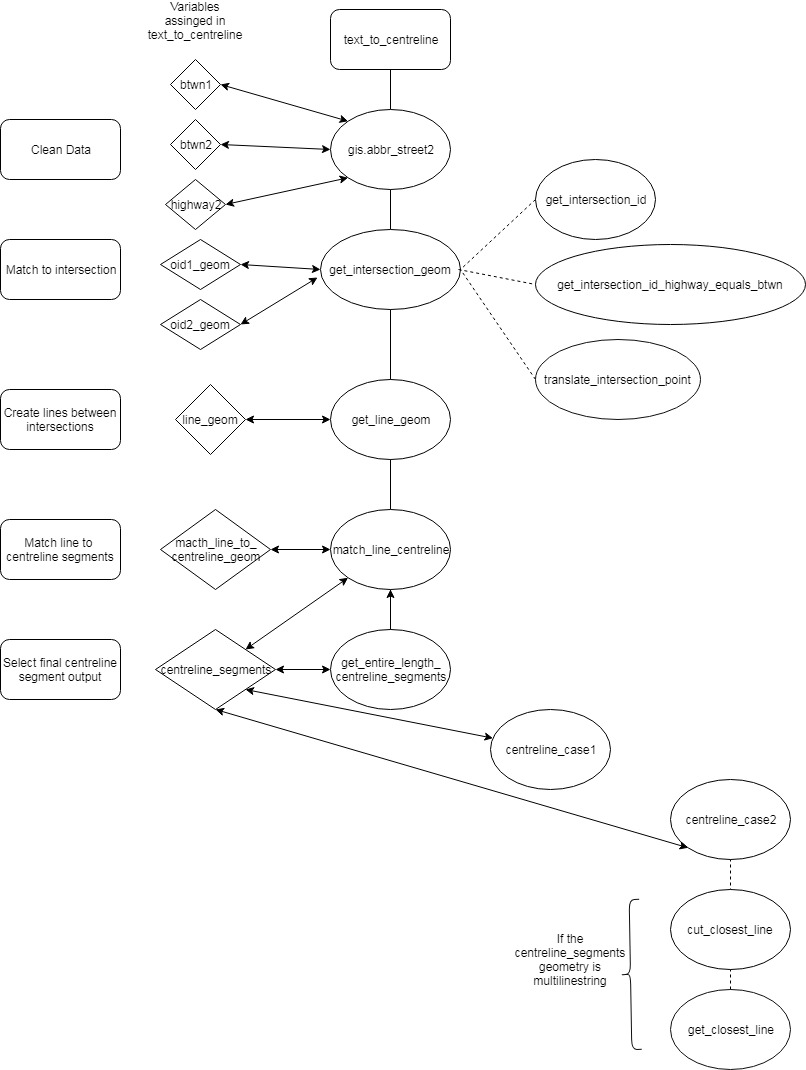
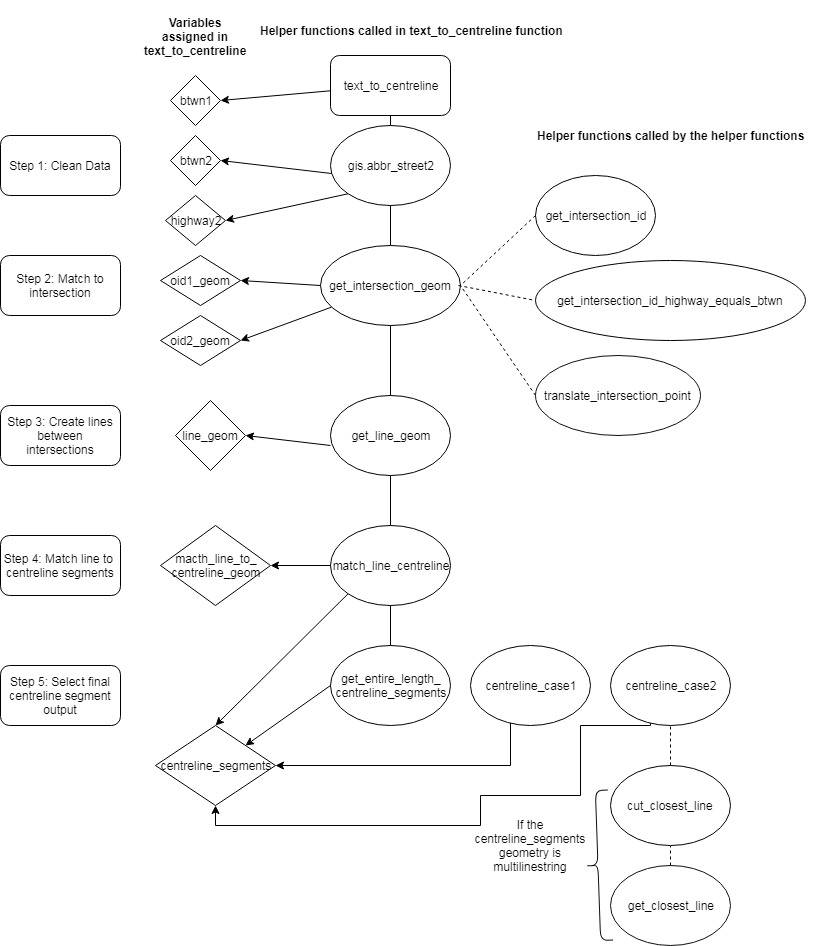
fixed documentation for centreline matching

diff --git a/gis/text_to_centreline_geometry_scripts/README.md b/gis/text_to_centreline_geometry_scripts/README.md
@@ -1,16 +1,15 @@
 
-# <center>Text Description to Centreline Geometry Automation Official Doc</center>
-## <center>August 2019</center>
+# <center>Text Description to Centreline Geometry Automation</center>
 
 ## Intro
 
-This is a `README` for the `text_to_centreline(highway, fr, t)` function, which is written in `postgresql` (currently living in the `crosic` schema). The general purpose of this function is to take input of a text description of a street location in the City of Toronto, and make an output of centreline segments that match this description. The input descriptions typically state the street that the bylaw occurs on and the two intersections between which the bylaw occrus. For example, you could use the function to get the centreline segments of Bloor Street between Royal York Road and St George Street.
+This is a `README` for the `text_to_centreline(highway, fr, t)` function, which is written in `postgresql` (currently living in the `crosic` schema). The general purpose of this function is to take an input text description of a street location in the City of Toronto, and return an output of centreline segments that match this description. The input descriptions typically state the street that the bylaw is in effect on and the two intersections between which the bylaw. For example, you could use the function to get the centreline segments of Bloor Street between Royal York Road and St George Street.
 
-The function is supposed to be mainly used for City of Toronto [transportation bylaw data](https://open.toronto.ca/dataset/traffic-and-parking-by-law-schedules/), for example we have already used previous versions of this process for [posted speed limits](https://github.com/CityofToronto/bdit_data-sources/tree/master/gis/posted_speed_limit_update) on streets in the City, locations of [community safety zones](https://github.com/CityofToronto/bdit_vz_programs/tree/master/safety_zones/commuity_safety_zone_bylaws), [turn restrictions](https://github.com/CityofToronto/bdit_vz_programs/blob/master/notebooks/Turn%20Restrictions.ipynb), etc. The function can handle most bylaws, even more advanced cases. Any limitations that we are currently aware of will be listed somewhere in this document. It also should be noted that some bylaws are incorrect (for many reasons, such as a described intersection not existing), and our function probably cannot match a lot of these bylaws, since the data is incorrect.
+The function is mainly created to process the City of Toronto's [transportation bylaw data](https://open.toronto.ca/dataset/traffic-and-parking-by-law-schedules/). We have already used previous versions of this process for [posted speed limits](https://github.com/CityofToronto/bdit_data-sources/tree/master/gis/posted_speed_limit_update) on streets in the City, locations of [community safety zones](https://github.com/CityofToronto/bdit_vz_programs/tree/master/safety_zones/commuity_safety_zone_bylaws), [turn restrictions](https://github.com/CityofToronto/bdit_vz_programs/blob/master/notebooks/Turn%20Restrictions.ipynb), etc. The function can handle most bylaws, even more advanced cases. Any limitations that we are currently aware of will be listed in the [QC folder README](QC/README.md) of the document. It also should be noted that some bylaws are incorrect (for many reasons, such as a described intersection not existing), and our function cannot coreectly match a lot of these bylaws, since the data is incorrect. Sometimes the function will match the bylaws incorrectly and other times it will return and error.
 
 ## Function Inputs
 
-The function takes three inputs, called `highway`, `frm`, and `to`. They are called these names to emmulate the names of columns in bylaw certain documents. There are two types of ways that bylaws are explained in documents and they can influence what you input to the function.
+The function takes three inputs, called `highway`, `frm`, and `to`. They are called these names to emulate the names of columns in bylaw certain documents. There are two types of ways that bylaws are explained in documents and they can influence what you input to the function.
 
 If you have a bylaw written like:
 
@@ -18,7 +17,9 @@ If you have a bylaw written like:
 |--------|---|---|
 | Bloor Street |Royal York Road | St George Street |
 
-Then I'm sure its obvious what parameter is what.
+`Bloor Street` as `highway`
+`Royal York Road` as `frm`
+`St George Street` as `to`
 
 However there is a different format:
 
@@ -39,18 +40,20 @@ The main steps for every type of input (complex or not so complex) are:
 2. Match location text data to intersections
 3. Create lines from matched intersections and match lines to centreline segments
 
-The process will be explained in futher detail below. The functions called/variables assinged by these functions can be visualized with the following flow chart ![](jpg/flow_chart_text_to_centreline.jpg)
+The process will be explained in further detail below. The functions called/variables assigned by these functions can be visualized with the following flow chart ![](jpg/flow_chart_text_to_centreline.jpg)
 
 ## Step 1: Clean the data
 
-The first step is to clean the location description data so it can easily be matched to ID's in the `gis.centreline_intersection` table.
+The first step is to clean the location description data so it can easily be matched to intersections in the `gis.centreline_intersection` table.
+
+We clean the data mainly using the `gis.abbr_street2` function. The intersection table writes roads with appreviations. For example the word street is written as `St` and road is `Rd`, etc. 
 
 We want to be able to extract:
 
-1. `highway2`: the street name where the bylaw occurs (written in a format that is easily matchable to the intersections table)
-2. `btwn1` and `btwn2`: the name of both the streets between which the bylaw occurs
-3. `metres_btwn1` and `metres_btwn2`: will be null for everything except for [special case 1 and 2](#Special-Cases). These are the number of metres away from the intersections (intersections meaning intersection of `highway2` and `btwn1` and/or `highway2` and `btwn2`) that the bylaws occur
-4. `direction_btwn1` and `direction_btwn2`: will be null for everything except for [special case 1 and 2](#Special-Cases). These are directions away from the intersections (intersections meaning intersection of `highway2` and `btwn1` and/or `highway2` and `btwn2`) that the bylaws occur
+1. `highway2` (`TEXT`): the street name where the bylaw occurs (that was cleaned using `gis.abbr_street2`)
+2. `btwn1` and `btwn2` (`TEXT`): the name of both the streets between which the bylaw occurs (i.e the two intersections). In the case from the [function inputs](#Function-Inputs) section, btwn1 would be `Royal York Rd` and `btwn2` would be `St George St`
+3. `metres_btwn1` and `metres_btwn2` (`NUMERIC`): will be null for everything except for [special case 1 and 2](#Special-Cases). These are the number of metres away from the intersections (intersections meaning intersection of `highway2` and `btwn1` and/or `highway2` and `btwn2`) that the bylaws occur. For example if the bylaw is in effect on `Bloor Street` between `100` metres east of `Royal York Road` and `300` metres west of `St George Street`, then `metres_btwn1` would be `100` and `metres_btwn2` would be `300`. 
+4. `direction_btwn1` and `direction_btwn2` (`TEXT`): will be null for everything except for [special case 1 and 2](#Special-Cases). These are directions away from the intersections (intersections meaning intersection of `highway2` and `btwn1` and/or `highway2` and `btwn2`) that the bylaws occur. For example if the bylaw is in effect on `Bloor Street` between `100` metres east of `Royal York Road` and `300` metres west of `St George Street`, then `direction_btwn1` would be `east` and `direction_btwn2` would be `west`.
 
 There are different cases for how the data is input ([see above](#Function-Inputs)), so both of those cases should have to be cleaned differently, hence there is a lot of code like: `CASE WHEN t IS NULL THEN ` .... `ELSE`. An idea to make this cleaner in the future could be to make 2 different functions for cleaning inputs.
 
@@ -60,7 +63,7 @@ The `gis.abbr_street2` function is called a lot in the cleaning process. It is a
 
 The function `get_intersection_geom` is the main function that is called to get the geometry of the intersections between which the bylaw is in effect. The function returns an array with the geometry of the intersection and the `objectid` (unique `ID`) of the intersection. If the `direction` and `metres` values that are inputted to the function are not `NULL`, then the function returns a translated intersection geometry (translated in the direction specified by the number of metres specified). The function takes a value `not_int_id` as an input. This is an intersection `int_id` (intersection `ID`) that we do not want the function to return. We use `int_id` instead of `objectid` since sometimes there are intersection points that are in the exact same location but have different `objectid` values. This is a parameter to this function because sometimes streets can intersect more than once, and we do not want the algorithm to match to the same intersection twice.
 
-In  most cases, the function `get_intersection_geom` calls on another function called `get_intersection_id`. This function returns the `objectid` and `intersection id` of the intersection, as well as how close the match was (where closeness is measured by levenshtein distance). The query in this function works by gathering all of the streets from the City of Toronto intersection streets table that have the same/very similar names to the streets that intersect each other to create an end point of the bylaw location. If there are more than one street with the same unique intersection ID in this subset, then this means that both streets in the enpoint of the bylaw have been matched to streets in the City of Toronto intersection. We can use a `HAVING` clause (i.e. `HAVING COUNT(intersections.street) > 1`) to ensure that only the intersections that have been matched to both street names are chosen. The `gis.centreline_intersection_streets` view (that is called in this query) assigns a unique ID to each intersection in the City of Toronto (`gis.centreline_intersection`). Each row contains one street name from an intersection and the ID associated with the intersection.
+In  most cases, the function `get_intersection_geom` calls on another function called `get_intersection_id`. This function returns the `objectid` and `intersection id` of the intersection, as well as how close the match was (where closeness is measured by levenshtein distance). The query in this function works by gathering all of the streets from the City of Toronto intersection streets table that have the same/very similar names to the streets that are described in the bylaw description provided as input to the `text_to_centreline` function (i.e. `btwn1`, `btwn2`, `highway2`). If there is more than one street with the same unique intersection ID in this subset, then this means that both streets at one of the intersections between which the bylaw is in effect have been matched. We can use a `HAVING` clause (i.e. `HAVING COUNT(intersections.street) > 1`) to ensure that only the intersections that have been matched to both street names are chosen. The `gis.centreline_intersection_streets` view (that is called in this function) assigns a unique ID to each intersection in the City of Toronto (`gis.centreline_intersection`). Each row contains one street name from an intersection and the ID associated with the intersection.
 
 If the names for `highway` and `btwn` are the same, the `get_intersection_geom` calls on the function called `get_intersection_id_highway_equals_btwn`. This function is intended for cases where the intersection that we want is a cul de sac or a dead end or a pseudo intersection. In these cases the intersection would just be the name of the street. `not_int_id` is a parameter of this function as well since some streets both start and end with an intersection that is a cul de sac or pseudo intersection. The process to find the appropriate intersection is very similar to the `get_intersection_id` function, except it does not have the `HAVING COUNT(intersections.street) > 1`. This is because cul de sac or pseudo intersections intersection only have one entry in the `gis.centreline_intersection_streets` view (since there is only one road involved in the intersection).
 
@@ -70,7 +73,7 @@ The `oid1_geom` and `oid2_geom` values that are assigned in the `text_to_centrel
 
 ### Create line_geom:
 
-Take the intersection points (or translated intersection points if the points were translated) that were found in the previous step (i.e. `oid1_geom`, `oid2_geom`) and create lines between these points. The `line_geom` variable is created by calling the `get_line_geom` function. Lines are less than `11` metres long were filtered out, since one of the intersections was most likely incorrectly matched.
+Take the intersection points (or translated intersection points if the points were translated) that were found in the previous step (i.e. `oid1_geom`, `oid2_geom`) and create lines between these points. The `line_geom` variable is created by calling the `get_line_geom` function. Lines are less than `11` metres long were filtered out, since one of the intersections was most likely incorrectly matched. The `11` metres number is chosen somewhat arbitrarily.
 
 ### Match line to centreline:
 
@@ -82,7 +85,11 @@ Sometimes the name of the street in the `gis.centreline` table is not the same a
 
 The `match_line_to_centreline` function matches `line_geom` to centreline segments. If both `metres_btwn1` and `metres_btwn2` are `NULL`, it does this by creating a buffer that is 3 times the length of `line_geom` around `line_geom`. It then catches all of the segments in that buffer that have the same name as `street_name` where more than 90% of the segment is within the buffer.
 
-If `metres_btwn2` and/or `metres_btwn1` is not `NULL` than the buffer length is `10` times the value of `COALESCE(metres_btwn1, metres_btwn2)` and the centreline segment can be within `30` metres of the end of the buffer. Also, this case does not require the 90% of the centreline segments to intersect with the buffer. The reason why there is a 30 metre extension at the end of the buffer/`line_geom` and there is no `90%` rule in the case where `metres_btwn1` or `metres_btwn2` are not `NULL` is because we want to include the street segments that intersect with the intersections that are not inside of our originally drawn buffer. The type of buffer we are using in both cases has a flat endcap. This means that that the buffer does not go farther than the end of `line_geom`. This type of buffer is useful in the case where `metres_btwn1` and `metres_btwn2` are `NULL` because it prevents additional centreline segments that are part of the same street and are beside each intersection (but not inside the buffer) from being included in the selected centreline segments. However, in the case where `metres_btwn1` and/or `metres_btwn2` are not `NULL`, the final geometry might extend beyond the intersection (see documentation on [special case 1 and 2](#Special-Cases) for more information). So we would like to select all segments along the street that are between the two intersections, and also segments that intersect with the ends of the buffer (i.e. `oid1_geom` and `oid2_geom`). The `30` metres buffer ensures that segments that are near the intersections but just slightly out of the buffer are also selected.
+If `metres_btwn2` and/or `metres_btwn1` is not `NULL` than the buffer length is `10` times the value of `COALESCE(metres_btwn1, metres_btwn2)` and the centreline segment can be within `30` metres of the end of the buffer. Also, this case does not require the 90% of the centreline segments to intersect with the buffer. 
+
+The reason why there is a 30 metre extension at the end of the buffer/`line_geom` and there is no `90%` rule in the case where `metres_btwn1` or `metres_btwn2` are not `NULL` is because we want to include the street segments that intersect with the intersections (to account for [Special cases 1 and 2](#Special-Cases)). In the case where `metres_btwn1` and/or `metres_btwn2` are not `NULL`, the final geometry might extend beyond the intersection (see documentation on [special case 1 and 2](#Special-Cases) for more information). So we would like to select all segments along the street that are between the two intersections, and also segments that intersect with the ends of the buffer (i.e. `oid1_geom` and `oid2_geom`). The `30` metres buffer ensures that segments that are near the intersections but just slightly out of the buffer are also selected.
+
+The type of buffer we are using in both cases has a flat endcap. This means that that the buffer does not go farther than the end of `line_geom`. This type of buffer is especially useful in the case where `metres_btwn1` and `metres_btwn2` are `NULL` because it prevents additional centreline segments that are part of the same street and are beside each intersection (but not inside the buffer) from being included in the selected centreline segments. It is also useful in the case where `metres_btwn1` and/or `metres_btwn2` are not `NULL` (where we effectively add 30 metres to the end of each buffer), because if the endcap was not flat then the length from the intersection to the end of the buffer would be a function on the length of the buffer, and we would not easily know this value/it could be too long if the buffer is long. 
 
 ### centreline_segments variable:
 
@@ -92,7 +99,7 @@ In the `text_to_centreline` function, this variable is the final version of the 
 
 2. If `COALESCE(metres_btwn1, metres_btwn2) IS NULL` then the bylaw is not a [special case](#Special-Cases). So the centreline segments from `match_line_to_centreline` are the final output.
 
-3. If the bylaw is [special case](#Special-Cases) the call the appripriate function for that special case.
+3. If the bylaw is [special case](#Special-Cases) the call the appropriate function for that special case.
 
 
 ### Confidence output
@@ -132,10 +139,10 @@ There are 57 records with this case.
 For this case, we need to find the intersections St. Marks and Watson Avenue, and St. Johns Road and Watson Avenue. Then find a point that is 100 metres north of the intersection of St. Johns Road and Watson Avenue.
 
 ### Workflow for Special Case 1:
-1. make a point that is x metres away from intersection in the cardinal direction indicated
-2. make a line from the intersection to that point
+1. make a point that is x metres away from intersection in the cardinal direction indicated (in other words: translate the intersection)
+2. make a line from the intersection to that point (translated point)
 3. make a buffer around the line and catch centreline segments in the buffer with the correct street name
-4. dissolve the centreline segments for each community safety zone into one geom
+4. dissolve the centreline segments for each bylaw into one geom
 5. cut the dissolved segments to be from the intersection described in `btwn1` column to x metres away from that intersection in the direction specified in `direction_btwn2`.
 
 ### Workflow for Special Case 2:
@@ -144,25 +151,38 @@ For this case, we need to find the intersections St. Marks and Watson Avenue, an
 3. make a buffer around the line and catch centreline segments in the buffer with the correct street name
 4. dissolve the centreline segments for each community safety zone into one geom
 5.
- - **High level:** cut the dissolved segment to either be from `btwn1` intersection to x metres away from `btwn2` in a certain direction **OR** from x metres away from `btwn1` intersection in a specified direction to the `btwn2` intersection **OR** x metres away from intersection `btwn1` in specified direction to y metres away from `btwn2` intersection in a specified direction.
- - I used the [ST_LineSubstring function](ST_LineSubstring), which takes a geom and two numbers between 0 and 1 inclusive, and returns a substring of that line geom from the first fraction to the second fraction (i.e. if the fractions were 0 and 0.20 ST_LineSubstirng would return the first 20% of the inputted line geom). To find the fraction that the point x metres away from the original intersection was located, I calculated the fraction of the line that the location the specified intersection represented. I then added or subtracted (depending on direction and location of the intersection on the dissolved centreline geom). One of my concerns was: **how do I know if I should add or subtract the percentage of x metres of the line?**
- - The [ST_LineLocatePoint function](https://postgis.net/docs/ST_LineLocatePoint.html) was used to find the location of points as a fraction of the length of the dissolved centreline geom. In order to figure out if I should add or subtract the fraction of the line that is x metres away from the intersection, I used the line from step 1. I found the closest point on the dissolved centreline to the end of the line created in step 1.
- - If the fraction returned by ST_LineLocatePoint of the dissolved centreline that the original intersection occured on was smaller than the fration that returned by ST_LineLocatePoint represented the closest point on the dissolved centreline to the end of the line from step 1, then the situation would look like this (assuming that the line goes from left to right so points on the left have a lower fraction value):
+ - **High level:** cut the dissolved segment to either be 
+    1. Intersection 1 (`btwn1` intersection) to  translated intersection 2 (`btwn2` intersection)
+    
+    ![](jpg/case1_num1.jpg)
+ 
+    2. Translated intersection 1 (`btwn1` intersection) to intersection 2 (`btwn2` intersection)
+    
+    ![](jpg/case1_num2.jpg)
+
+    3. Translated intersection 1 (`btwn1` intersection)  to translated intersection 2 (`btwn2` intersection)
+    
+    ![](jpg/case1_num3.jpg)
+
+- The [ST_LineLocatePoint function](https://postgis.net/docs/ST_LineLocatePoint.html) was used to find the location of points as a fraction of the length of the dissolved centreline geom.
+ - I used the [ST_LineSubstring function](ST_LineSubstring), which takes a geom and two numbers between 0 and 1 inclusive, and returns a substring of that line geom from the first fraction to the second fraction (i.e. if the fractions were 0 and 0.20 `ST_LineSubstring` would return the first 20% of the inputted line geom). To find the fraction that the point x metres away from the original intersection was located, I calculated the fraction of the line that the location the specified intersection represented. I then added or subtracted (depending on direction and location of the intersection on the dissolved centreline geom). One of my concerns was: **how do I know if I should add or subtract the percentage of x metres of the line?**
+ - In order to figure out if I should add or subtract the fraction of the line that is x metres away from the intersection, I used the line from step 1 (step 1 of special case 2 workflow). I found the closest point on the dissolved centreline to the end of the line created in step 1.
+ - If the fraction returned by ST_LineLocatePoint of the dissolved centreline that the original intersection occurred on was smaller than the fraction that returned by ST_LineLocatePoint represented the closest point on the dissolved centreline to the end of the line from step 1, then the situation would look like this (assuming that the line goes from left to right so points on the left have a lower fraction value):
 ![](jpg/figure1_case2.jpg)
- - In the situation in the above image, to get the fraction of the point x metres away from the original intersection, you would add the `x metres/total length of dissolved centreline` to the fraction returned by ST_LineLOcatePoint of the original intersection.
+ - In the situation in the above image, to get the fraction of the point x metres away from the original intersection, you would add the `x metres/total length of dissolved centreline` to the fraction returned by `ST_LineLocatePoint` of the original intersection.
  ![](jpg/figure2_case2.jpg)
  - In the situation in the above image (assuming the line is drwan from left to right so that the fractions from St_LineLocatePoint of the points on the left are smaller), to get the fraction of the point x metres away from the original intersection, you would subtract the `x metres/total length of dissolved centreline` to the fraction returned by LineLocatePoint of the original intersection.
 
 # MultiLineString Geometries that are Case 2
 
-Sometimes a geometry in case 2 is a multilinestring (i.e the street is not continuous). An example of this occurs near Annette Street and Durie Street. As you can see Durie street is not continuous: ![](jpg/multiline_example.jpg)
-If you wanted to get all of the segments in between two intersections and the street was not continous between those intersections, then the algorithm that we've looked at so far would work because processes do not rely on the geometry being a `Linestring` as opposed to a `MultiLineString`. For example, you can draw a buffer around both a `Linestring` and a `MultiLineString`. However, when a bylaw is a special case 2, the geometry needs to be put into the functions `ST_LineLocatePoint()` and `ST_LineSubstring()`. These functions require geometry input to be a `LineString` as opposed to a `MultiLineString`. Since `MultiLineString`s are just an array of `LineString`s, you can select the strings that its made up of individually. The current general idea behind dealing with special case 2 bylaw locations where the street segments are a `MultiLineString` has been to find the centreline segment that is closest to the translated intersection point and to cut that line appropriately. For example if we were trying to get the geometry from Durie Street and MacGregor Avenue to 100 metres north of Annette Street, the first step would be to take the returned set of centreline segments from the `match_line_to_centreline` function and find the street centreline segment that is on Durie street, just north of Annette Street. After I would cut that selected segment appropriately (i.e from Annette and Durie to `30 metres` north of that point along Durie). After I would combine this new segment with all of the other segments from the `match_line_to_centreline` function output, replacing the segment that is just north Annette Street.
+Sometimes a geometry in case 2 is a multilinestring (i.e the street is not continuous). An example of this occurs near Annette Street and Durie Street. As you can see Durie street is not continuous: ![](jpg/multiline_example_highlighted.jpg)
+If you wanted to get all of the segments in between two intersections and the street was not continuous between those intersections, then the algorithm that we've looked at so far would work because processes do not rely on the geometry being a `Linestring` as opposed to a `MultiLineString`. For example, you can draw a buffer around both a `Linestring` and a `MultiLineString`. However, when a bylaw is a special case 2, the geometry needs to be put into the functions `ST_LineLocatePoint()` and `ST_LineSubstring()`. These functions require geometry input to be a `LineString` as opposed to a `MultiLineString`. Since `MultiLineString`s are just an array of `LineString`s, you can select the strings that its made up of individually. The current general idea behind dealing with special case 2 bylaw locations where the street segments are a `MultiLineString` has been to find the centreline segment that is closest to the translated intersection point and to cut that line appropriately. For example if we were trying to get the geometry from Durie Street and MacGregor Avenue to 100 metres north of Annette Street, the first step would be to take the returned set of centreline segments from the `match_line_to_centreline` function and find the street centreline segment that is on Durie street, just north of Annette Street. After I would cut that selected segment appropriately (i.e from Annette and Durie to `30 metres` north of that point along Durie). After I would combine this new segment with all of the other segments from the `match_line_to_centreline` function output, replacing the segment that is just north Annette Street.
 
 If the geometry passed to the `centreline_case2` function is a `MultiLineString`, then the `cut_closest_line` function gets called. The first thing this function does is find the line that is closest to the translated intersection.
 
 The function that finds the closest line to the translated intersection geometry is called `get_closest_line`. It works by dumping the `MultiLineString` geometry and ordering them based on which one is closest to the point, only selecting the top value (i.e. closest line). It also returns the `path`, which is the index of the line in the `MultiLineString` array, which can be used later.
 
-After the closest lines are found in the `cut_closest_line` function, the next step is to cut the line closest to intersection 1 appropriately (create `new_line1 variable`). This process currently does not work. After that, we find the cut version of the line that is closest to intersection 2 (create `new_line2` variable). In this process, special consideration is taken to consider if the line that is closest to the first intersection is the same as the second. This process also does not work right now. The final line (line that is returned) is created by selecting both `new_line1` and `new_line2`. I think this process might not work as well but I'm not too sure.
+After the closest lines are found (this happens when the `cut_closest_line` function calls the `get_closest_line` function), the next step is to cut the line closest to intersection 1 appropriately (create `new_line1 variable`). This process currently does not work. After that, we find the cut version of the line that is closest to intersection 2 (create `new_line2` variable). In this process, special consideration is taken to consider if the line that is closest to the first intersection is the same as the second. This process also does not work right now. The final line (line that is returned) is created by selecting both `new_line1` and `new_line2`. I think this process might not work as well but I'm not too sure.
 
 ## Quality Control (QC)
 

diff --git a/gis/text_to_centreline_geometry_scripts/QC/README.md b/gis/text_to_centreline_geometry_scripts/QC/README.md
@@ -1,12 +1,12 @@
 # Text to Centreline QC
 
 It is important to find efficient ways to conduct QC so we can verify that the streets that were matched to the large number of bylaw locations are correct. The QC can involve a lot of manual checks to the final dataset. The checks that do include:
-- manually checked all the bylaw locations with final geoms over 2 km that occured between unfamiliar intersections (or intersections between which I was uncertain that the distance was over 2 km)
+- manually checked all the bylaw locations with final geoms over 2 km that occurred between unfamiliar intersections (intersections that I personally have never heard of), or intersections between which I was uncertain that the distance was over 2 km
 - looked at the centreline segments matched to bylaws that have a low confidence value
 - looked at final lines that were of type `ST_MultiLineString` (this means that the lines were not continuous, or the line was a circular shape, or that there was a fork in the line)
 - looked at final bylaw lines that overlapped with a different bylaw's line
 - look at bylaws with more than one value in the `street_name_arr` output arry
-- look at outputs with a ratio that is greater than 1
+- look at outputs with a ratio that is greater than 1 (ratio is the length of the line between the two intersections compared to the length of the centreline segments that were output)
 
 I investigated some of these checks. I included the queries that I used in `QC_script.sql`. One of the tables I used were called `crosic."posted_speed_limit_xml_open_data_withQC"`. This table was the output of the script that takes an Open Data XML file of the speed limit bylaws in the city as input and matches its contents to geometries that represent the locations where these bylaws are in effect. Find it [here](../text_to_centreline_script_xml_opendata.py). `posted_speed_limit_xml_open_data_original` is a table with the original `XML` file from Open Data.
 
@@ -28,6 +28,10 @@ and st_geometrytype(p1.geom::geometry) <> 'ST_MultiLineString' and st_geometryty
 
 `csv` file to look at: `overlapping_geometry.csv`
 
+One reason that two bylaw geometries could overlap because there are two bylaws in effect that occur in the same location. These bylaws should be reported to the person who is in charge of maintaining the bylaw dataset (Aakash knows who this person is).
+
+Another reason could be that one (or potentially both) of the bylaws are matched incorrectly.
+
 ## Outputs with at least one street with a similar name close to it
 
 See the documentation on the [street_name_arr](../README.md) variable (assigned in Step 3 section) to understand it.
@@ -39,15 +43,15 @@ from crosic."posted_speed_limit_xml_open_data_withQC"
 where street_name_arr LIKE '%,%'
 ```
 
-`csv` file to look at: `more_than_one_street_with_small_lev_dist.csv`
+`csv` file to look at to find examples: `more_than_one_street_with_small_lev_dist.csv`
 
 ### Interesting Cases
 
-There were a lot of cases of streets that are totally spearate from each other having similar names. i.e. `The East Mall` and `The West Mall`, I'm not including those here.
+There were a lot of cases of streets that are totally separate from each other having similar names. i.e. `The East Mall` and `The West Mall`, I'm not including those here.
 
 #### William R Allen Road and Highway 27
 
-`William R Allen Road` and `Highway 27` are the few streets in the `gis.centreline` table that have different line segments for their northbound direction and their southbound direction. This is an issue because the algorithm will only match the bylaw to a street with one name (see information on the [street_name](../README.md) variable assigned in Step 3 in the process). So when given a bylaw where the street name that the bylaw occurs on is `William R Allen Rd`, it chooses to macth either `William R Allen Rd N` or `William R Allen Rd S` at random.
+`William R Allen Road` and `Highway 27` are the few streets in the `gis.centreline` table that have different line segments for their northbound direction and their southbound direction. This is an issue because the algorithm will only match the bylaw to a street with one name (see information on the [street_name](../README.md) variable assigned in Step 3 in the process). So when given a bylaw where the street name that the bylaw occurs on is `William R Allen Rd`, it chooses to match either `William R Allen Rd N` or `William R Allen Rd S` at random.
 
 Right now, the algorithm disregards any text between brackets, so the description `William R. Allen Road (northbound)` would be changed to `William R Allen Rd`.
 
@@ -57,7 +61,7 @@ Some cases need to be added to the function to make these specific streets match
 
 This case is not a result of the fact that two streets were in the `street_arr` array, its just something I noticed that could be fixed in the future.
 
-Its hard to descibe this case, so I'll show an example:
+Its hard to describe this case, so I'll show an example:
 
 `George Street South`	from `Henry Lane Terrace (south intersection) and Front Street East`
 
